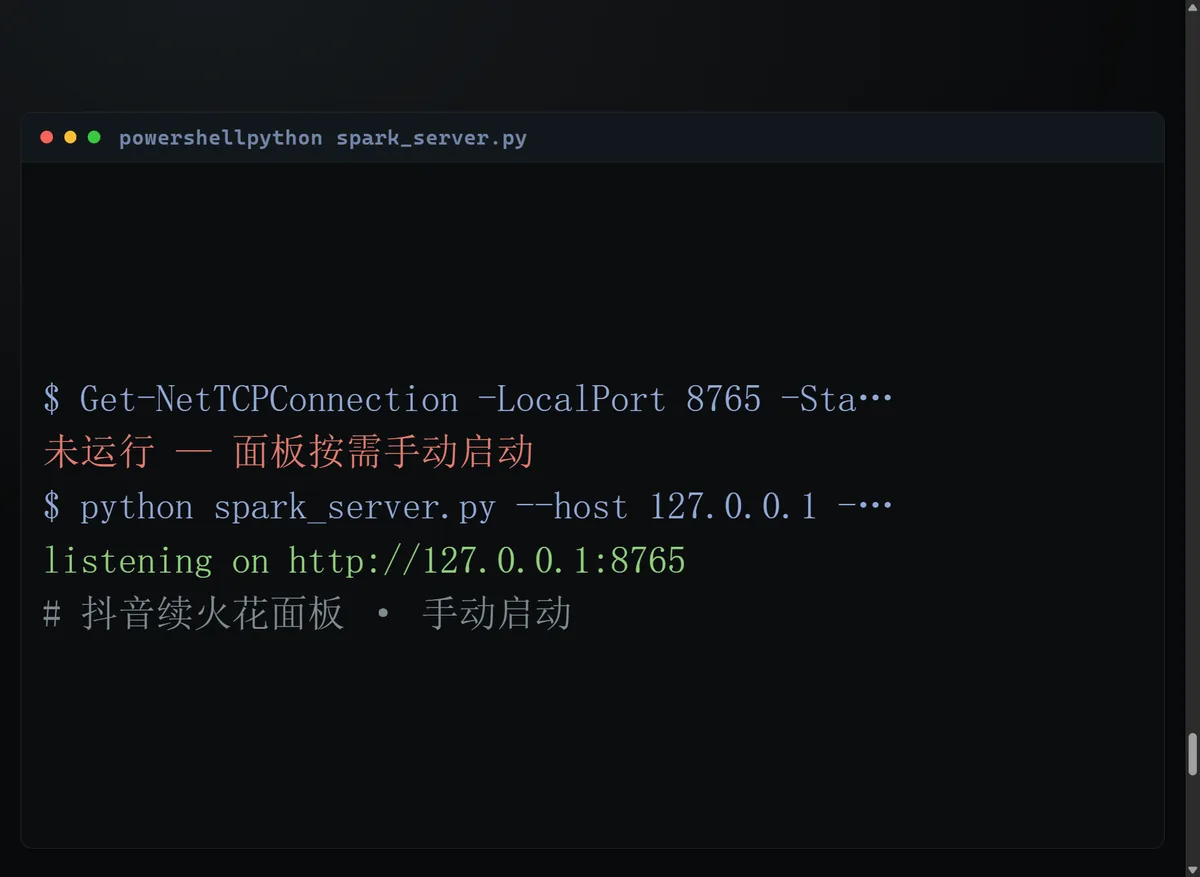
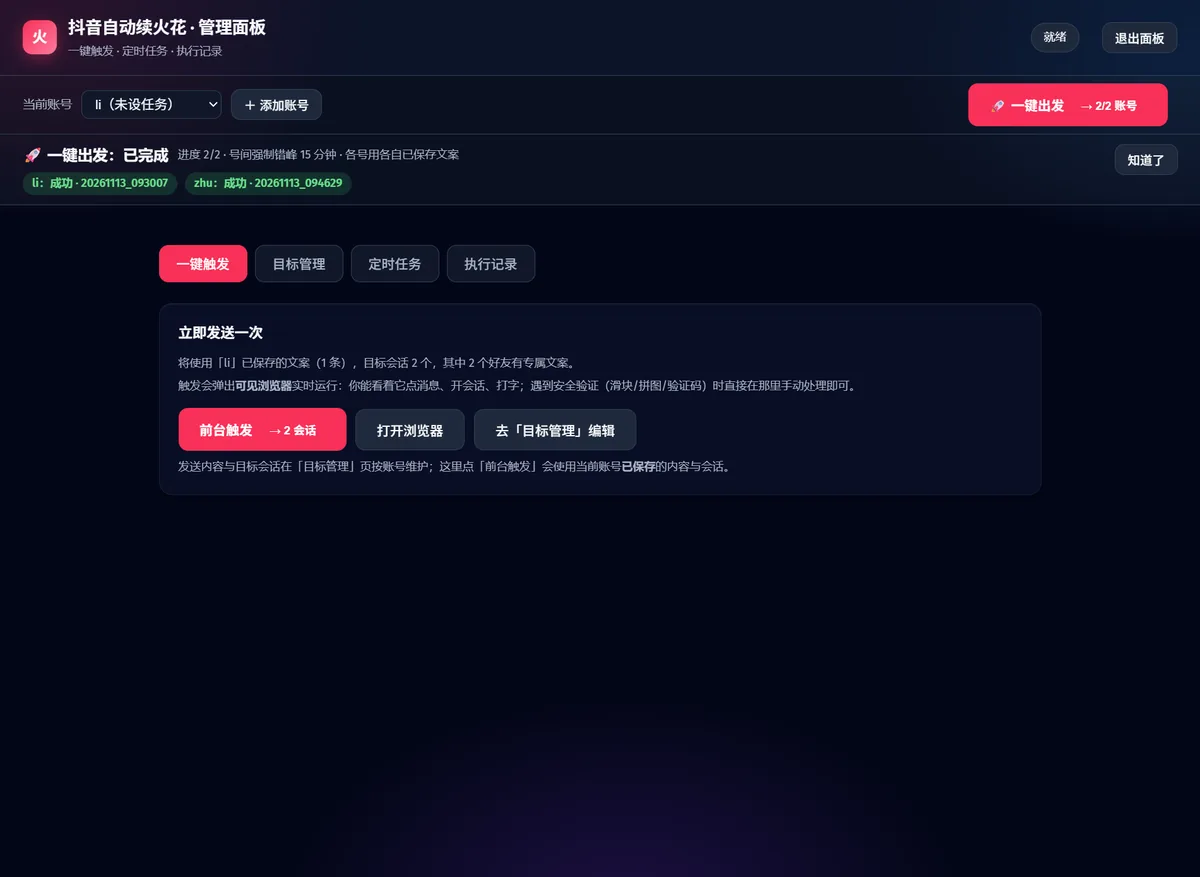
feat(web): 服务封面换成真实管理页截图，演示站拆成四张卡

diff --git a/web/pages/services/cover.tsx b/web/pages/services/cover.tsx
@@ -43,14 +43,16 @@ const IMG: Record<string, string> = {
   pinboard: 'covers/pinboard.webp',
   yb: 'covers/yb.webp',
   douyin: 'covers/douyin.webp',
-  streak: 'covers/streak.webp',
   singbox: 'covers/singbox.webp',
   xray: 'covers/xray.webp',
   hysteria: 'covers/hysteria.webp',
   caddy: 'covers/caddy.webp',
   v2ray: 'covers/v2ray.webp',
   nginx: 'covers/nginx.webp',
-  demos: 'covers/demos.webp',
+  apicdemo: 'covers/apicdemo.webp',
+  pricing: 'covers/pricing.webp',
+  bank: 'covers/bank.webp',
+  si: 'covers/si.webp',
   certbot: 'covers/certbot.webp',
   sub2api: 'covers/sub2api.webp',
   nodemetrics: 'covers/nodemetrics.webp',
@@ -64,9 +66,9 @@ const IMG: Record<string, string> = {
 }
 
 /** 宽横幅（3:1 那种）用「模糊铺底 + 居中完整显示」，截图（4:3）用 cover 铺满 */
-const WIDE = new Set(['demos'])
+const WIDE = new Set(['apicdemo'])
 /** 封面是 public/ 下的定名文件，换图后靠这个版本号让浏览器重新拉 */
-const COVER_V = '20261114c'
+const COVER_V = '20261114d'
 const asset = (p: string) => `${import.meta.env.BASE_URL || '/'}${p}?v=${COVER_V}`
 
 const KIND_HUE: Record<string, number> = { project: 18, service: 198, site: 268, script: 152, task: 10 }
